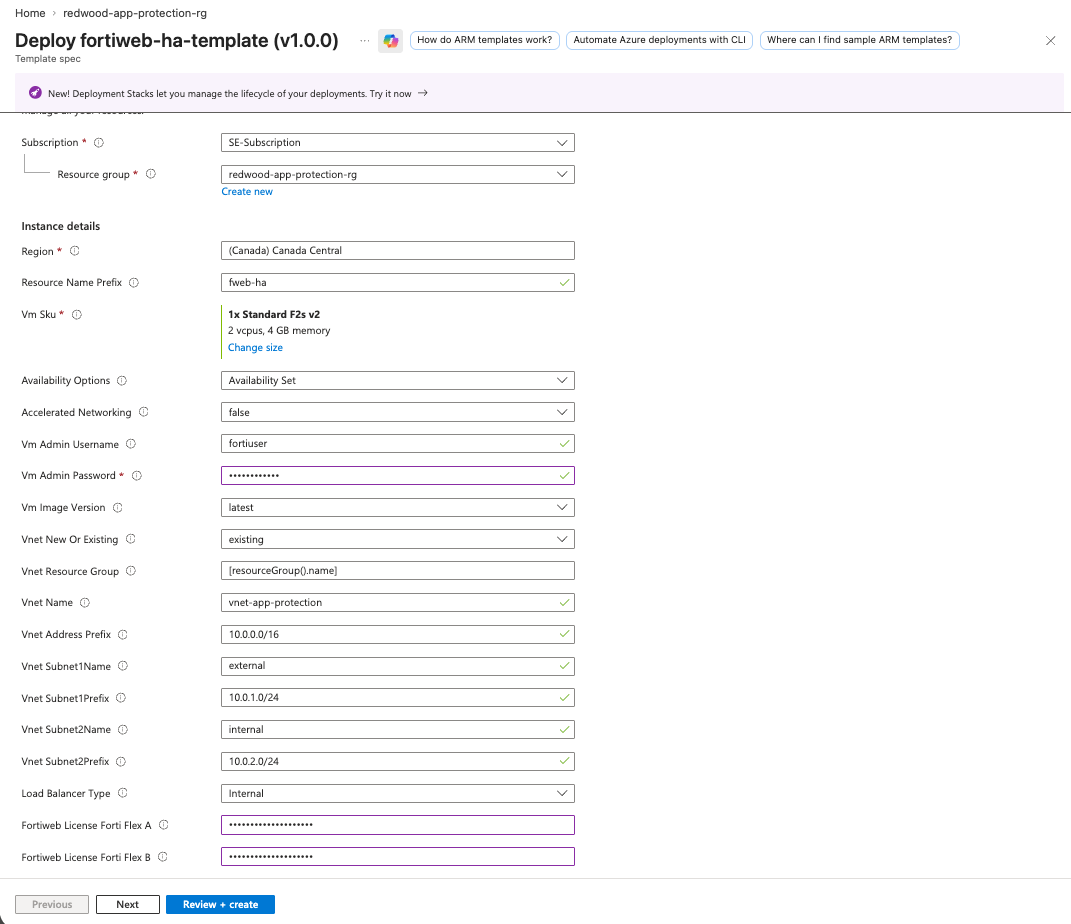
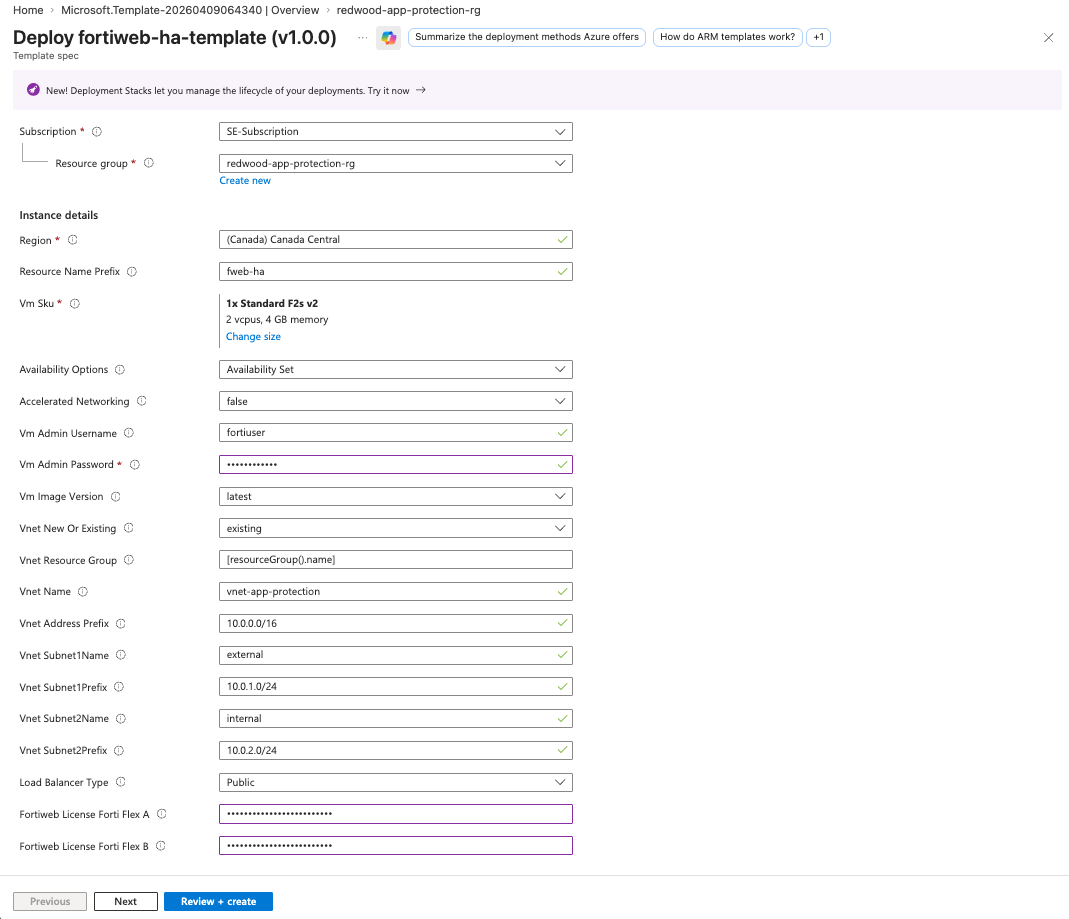
Initial version

Changed region(s): [[0.0, 0.2437, 0.5557, 1.0], [0.0, 0.0, 0.8952, 0.3656]]

diff --git a/az-301-lab1/README.md b/az-301-lab1/README.md
@@ -413,9 +413,11 @@ Locate the FortiFlex Tokens in your welcome e-mail:
 1. In the template editor, select all existing content and delete it
 2. Open the following URL in a new browser tab: [FortiWeb ARM Template](https://raw.githubusercontent.com/regisftm/AZ-301/refs/heads/main/arm-template/deploy_fwb_ha.json)
 3. Select all content (`Ctrl+A`) and copy it (`Ctrl+C`)
-4. Return to the Azure Portal template editor, delete the pre-populated **Template Content** and and paste (`Ctrl+V`)
+4. Return to the Azure Portal template editor, click on the **Template Content** and paste (`Ctrl+V`)
 5. Click **Review + create**
 6. Click **Create**
+
+![ARM Template](images/step7.3-arm-template.png)
 
 > [!NOTE]
 > The template spec is a reusable container for the ARM template. Creating it first means you can redeploy the same template in future without re-pasting the JSON.
@@ -424,14 +426,14 @@ Locate the FortiFlex Tokens in your welcome e-mail:
 
 #### 8.1 Open the Template for Deployment
 
-1. After creation, go back to the `redwood-app-protection-rg` and  click the **fortiweb-ha-template** template spec.
+1. After creation, go back to the `redwood-app-protection-rg` and click the **fortiweb-ha-template** template spec. If you don't see it, refresh the view.
 2. Click **Deploy**
 
 #### 8.2 Configure Basics
 
 | Setting | Value |
-|---|---|
-| **Subscription** | Your Azure subscription |
+| --- | --- |
+| **Subscription** | `Your Azure subscription` |
 | **Resource group** | `redwood-app-protection-rg` |
 | **Region** | `Canada Central` |
 
@@ -440,7 +442,7 @@ Locate the FortiFlex Tokens in your welcome e-mail:
 **Resource Naming:**
 
 | Parameter | Value |
-|---|---|
+| --- | --- |
 | **Resource Name Prefix** | `fweb-ha` |
 
 > [!NOTE]
@@ -449,7 +451,7 @@ Locate the FortiFlex Tokens in your welcome e-mail:
 **VM Configuration:**
 
 | Parameter | Value |
-|---|---|
+| --- | --- |
 | **Vm Sku** | `Standard_F2s_v2` |
 | **Availability Options** | `Availability Set` |
 | **Accelerated Networking** | `false` |
@@ -460,14 +462,14 @@ Locate the FortiFlex Tokens in your welcome e-mail:
 > [!WARNING]
 > The admin username cannot be `admin` or `root` — Azure will reject these. Use
 > `fortiuser` as shown above.
-
+---
 > [!WARNING]
 > The password must satisfy at least 3 of these 4 conditions: uppercase characters, lowercase characters, a digit, a special character. Save this password — you will need it to access both FortiWeb nodes throughout the workshop.
 
 **Network Configuration:**
 
 | Parameter | Value |
-|---|---|
+| --- | --- |
 | **Vnet New Or Existing** | `existing` |
 | **Vnet Resource Group** | `redwood-app-protection-rg` (or just leave the [resourceGroup().name] |
 | **Vnet Name** | `vnet-app-protection` |
@@ -480,18 +482,20 @@ Locate the FortiFlex Tokens in your welcome e-mail:
 **Load Balancer:**
 
 | Parameter | Value |
-|---|---|
+| --- | --- |
 | **Load Balancer Type** | `Public` |
 
 **FortiFlex Licensing:**
 
 | Parameter | Value |
-|---|---|
+| --- | --- |
 | **Fortiweb License Forti Flex A** | Your FortiFlex Token A (from Step 6.1) |
 | **Fortiweb License Forti Flex B** | Your FortiFlex Token B (from Step 6.1) |
 
 > [!NOTE]
 > The tokens are injected into each VM's `customData` at deployment time. When each FortiWeb node boots for the first time, it reads the token and contacts Fortinet's licensing servers automatically — no manual activation in the GUI is required.
+
+![Deploy ARM template](images/step8.3-deploy.png)
 
 #### 8.4 Deploy
 
@@ -513,13 +517,13 @@ Locate the FortiFlex Tokens in your welcome e-mail:
 
 When deployment completes, click on **Go to resource group**, verify the following resources exist in `redwood-app-protection-rg`:
 
-- ✅ `fweb-ha-vm1` — FortiWeb Node 1 (VM)
-- ✅ `fweb-ha-vm2` — FortiWeb Node 2 (VM)
-- ✅ `fweb-ha-availabilitySet` — Availability set containing both VMs
-- ✅ `fweb-ha-loadbalance` — External Load Balancer
-- ✅ `fweb-ha-loadbalance-IP` — Load Balancer public IP
-- ✅ `fweb-ha-nicPublic-IP1` and `fweb-ha-nicPublic-IP2` — VM management public IPs
-- ✅ `fweb-ha-securityGroup` — Network Security Group
+- [x] `fweb-ha-vm1` — FortiWeb Node 1 (VM)
+- [x] `fweb-ha-vm2` — FortiWeb Node 2 (VM)
+- [x] `fweb-ha-avset` — Availability set containing both VMs
+- [x] `fweb-ha-lb` — External Load Balancer
+- [x] `fweb-ha-lb-pip` — Load Balancer public IP
+- [x] `fweb-ha-nic-pip1` and `fweb-ha-nic-pip2` — VM management public IPs
+- [x] `fweb-ha-nsg` — Network Security Group
 
 ---
 
@@ -602,6 +606,8 @@ In this deployment, both FortiWeb nodes operate as **Standalone** units with no 
 
 6. Click **Apply**
 
+![HA Configuration - Server](images/step11.1-ha-config.png)
+
 > [!NOTE]
 > The Server role means `fweb-ha-vm1` is the **source of truth** for configuration. Any changes you make during this workshop should always be made on `fweb-ha-vm1`  first, then the FortiWeb `fweb-ha-vm2` will automatically pull it.
 
@@ -613,6 +619,8 @@ You will use the internal IP address of the FortiWeb `fweb-ha-vm1` to configure 
 2. Log in with your `fortiuser` credentials
 3. Navigate to **Network > Interface**
 4. Copy the port2 IP address to you notepad.
+
+![fweb-ha-vm1 ip address configuration](images/step11.2-ip-address.png)
 
 #### 11.3 Configure `fweb-ha-vm2` as the Configuration Client
 
@@ -631,6 +639,9 @@ You will use the internal IP address of the FortiWeb `fweb-ha-vm1` to configure 
 
 6. Click **Apply**
 
+![HA Configuration - Client](images/step11.3-ha-config-client.png)
+
+
 #### 11.4 Verify the Sync Completed Successfully
 
 1. On `fweb-ha-vm1`, navigate to **Dashboard > Status > System Information**
@@ -638,6 +649,9 @@ You will use the internal IP address of the FortiWeb `fweb-ha-vm1` to configure 
 3. In the top bar, where the HA status is showned, the following state should be observed:
    - On `fweb-ha-vm1` (Server): **HA: In Sync**
    - On `fweb-ha-vm2` (Client): **HA: Client**
+
+![HA Status Server](images/step11.4-server.png)
+![HA Status Client](images/step11.4-client.png)
 
 #### 11.5 Test the Configuration Synchornization
 
@@ -650,10 +664,10 @@ You will use the internal IP address of the FortiWeb `fweb-ha-vm1` to configure 
 
 ### Validation
 
-- [ ] `fweb-ha-vm1` configured as configuration **Server** on port 996
-- [ ] `fweb-ha-vm2` configured as configuration **Client** pointing to `fweb-ha-vm1`s private IP
-- [ ] Initial sync triggered and completed successfully
-- [ ] `fweb-ha-vm2` configuration matches `fweb-ha-vm1`
+- [x] `fweb-ha-vm1` configured as configuration **Server** on port 996
+- [x] `fweb-ha-vm2` configured as configuration **Client** pointing to `fweb-ha-vm1`s private IP
+- [x] Initial sync triggered and completed successfully
+- [x] `fweb-ha-vm2` configuration matches `fweb-ha-vm1`
 
 ---
 
@@ -668,48 +682,34 @@ The External Load Balancer distributes incoming traffic across both FortiWeb nod
 ### What You've Accomplished
 
 ✅ **Resource Group Created:**
+
 - `redwood-app-protection-rg` in Canada Central
 
 ✅ **Virtual Network Deployed:**
+
 - `vnet-app-protection` (10.0.0.0/16)
 - Four subnets: `AzureBastionSubnet`, `external`, `internal`, `protected`
 
 ✅ **Azure Bastion Configured:**
+
 - Browser-based secure access to private VMs — no public IPs required on app servers
 
 ✅ **FortiWeb HA Cluster Deployed via ARM Template:**
+
 - `fweb-ha-vm1` and `fweb-ha-vm2` running as standalone nodes
 - Azure External Load Balancer (`fweb-ha-loadbalance`) distributing traffic
 - FortiFlex tokens activated automatically on first boot
 - Both nodes in Availability Set for SLA coverage
 
 ✅ **Configuration Replication Established:**
+
 - Node 1 (`fweb-ha-vm1`) designated as configuration Server
 - Node 2 (`fweb-ha-vm2`) designated as configuration Client
 - Initial sync completed — both nodes are identical
 
 ### Architecture Review
-```text
-redwood-app-protection-rg (Canada Central)
-│
-├── vnet-app-protection (10.0.0.0/16)
-│   ├── AzureBastionSubnet  (10.0.0.0/24)
-│   ├── external            (10.0.1.0/24)  ← FortiWeb port1 (management + traffic)
-│   ├── internal            (10.0.2.0/24)  ← FortiWeb port2 (to app servers)
-│   └── protected           (10.0.3.0/24)  ← App servers [deployed in Lab 3]
-│
-├── bas-app-protection                      ← Azure Bastion
-├── bas-app-protection-pip                  ← Bastion public IP
-│
-├── fweb-ha-loadbalance (External LB)       ← Ports 80/443 — fweb-ha-loadbalance-IP
-│   └── FwbHaLBBackendAddrPool
-│       ├── fweb-ha-vm1 (Node 1 — Server)  ← fweb-ha-nicPublic-IP1
-│       └── fweb-ha-vm2 (Node 2 — Client)  ← fweb-ha-nicPublic-IP2
-│
-├── fweb-ha-availabilitySet
-├── fweb-ha-securityGroup
-└── [App servers — deployed in Lab 3]
-```
+
+![Lab 1 - Reference Architecture](images/az-301-lab1-reference-arch.png)
 
 ### Key Takeaways
 
@@ -728,17 +728,19 @@ redwood-app-protection-rg (Canada Central)
 Before proceeding to Lab 2, verify:
 
 **Infrastructure:**
-- ✅ `redwood-app-protection-rg` exists in Canada Central
-- ✅ `vnet-app-protection` has all four subnets with correct CIDRs
-- ✅ Azure Bastion deployed (`bas-app-protection`)
+
+- [x] `redwood-app-protection-rg` exists in Canada Central
+- [x] `vnet-app-protection` has all four subnets with correct CIDRs
+- [x] Azure Bastion deployed (`bas-app-protection`)
 
 **FortiWeb Cluster:**
-- ✅ `fweb-ha-vm1` and `fweb-ha-vm2` both running
-- ✅ GUI accessible on both nodes at port 8443
-- ✅ FortiFlex licences valid on both nodes
-- ✅ Node 1 configured as configuration Server (port 996)
-- ✅ Node 2 configured as configuration Client pointing to Node 1
-- ✅ Initial configuration sync completed successfully
+
+- [x] `fweb-ha-vm1` and `fweb-ha-vm2` both running
+- [x] GUI accessible on both nodes at port 8443
+- [x] FortiFlex licences valid on both nodes
+- [x] Node 1 configured as configuration Server (port 996)
+- [x] Node 2 configured as configuration Client pointing to Node 1
+- [x] Initial configuration sync completed successfully
 
 > [!NOTE]
 > The loadbalnacer will show both FortWeb backends as `Down` as we don't have the application server in place yet. The application server deployment will be done in Lab 2.
